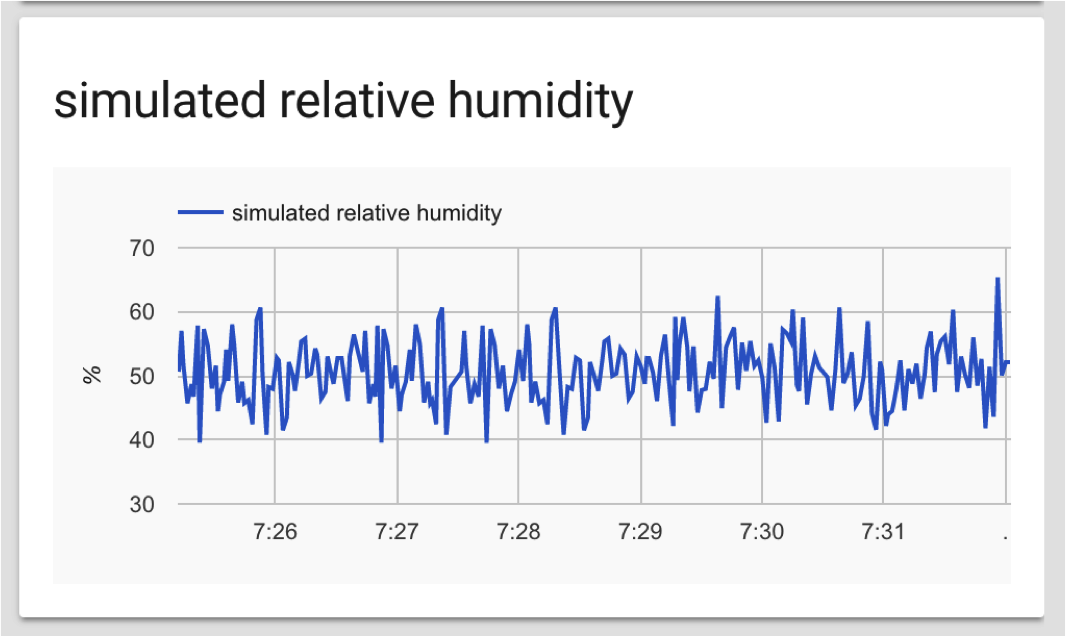
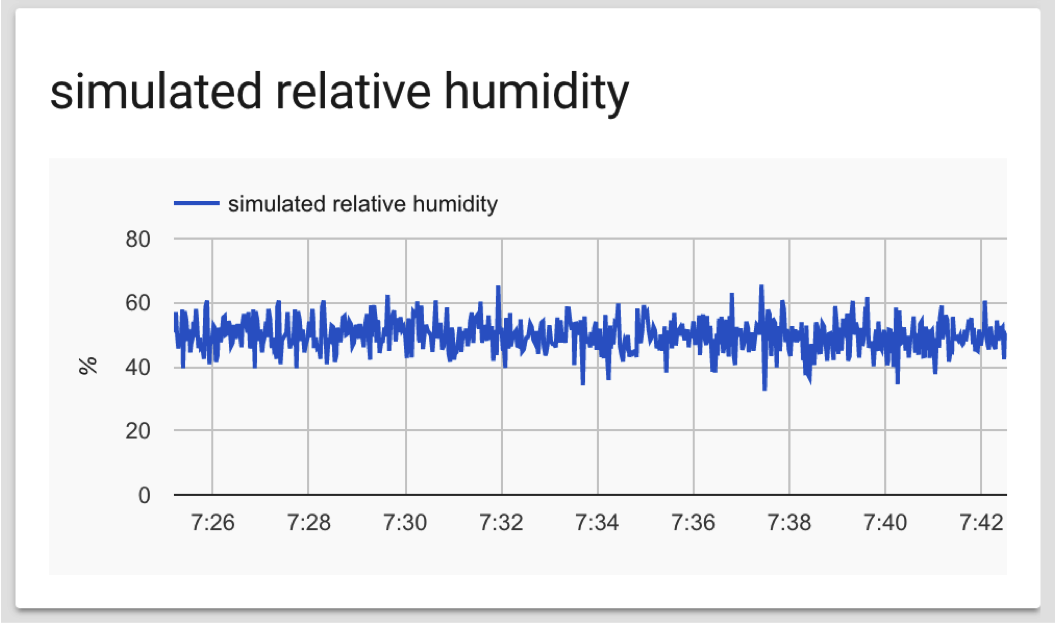
Update readme

diff --git a/README.md b/README.md
@@ -44,4 +44,8 @@ To give an example of simulating real world data, we can create a simulated rela
   spread: 10
   seed: 999
 ```
-A graph of the data generated is below. Bear in mind that due to statistics, approximately 30% of values are outside of the configured spread of 10.
+Here the sine wave contribution has been set to zero by configuring an amplitude of **0**, and a Gaussian noise signal with spread **10** is generated about a mean value of **50**. A graph of the data generated is below. Bear in mind that [due to statistics](https://en.wikipedia.org/wiki/Normal_distribution), approximately 30% of values are outside of the configured spread of **10**.
+
+<p align="center">
+<img src="https://github.com/robmarkcole/HASS-simulated-sensor/blob/master/images/simulated_humidity.png" width="500">
+</p>
